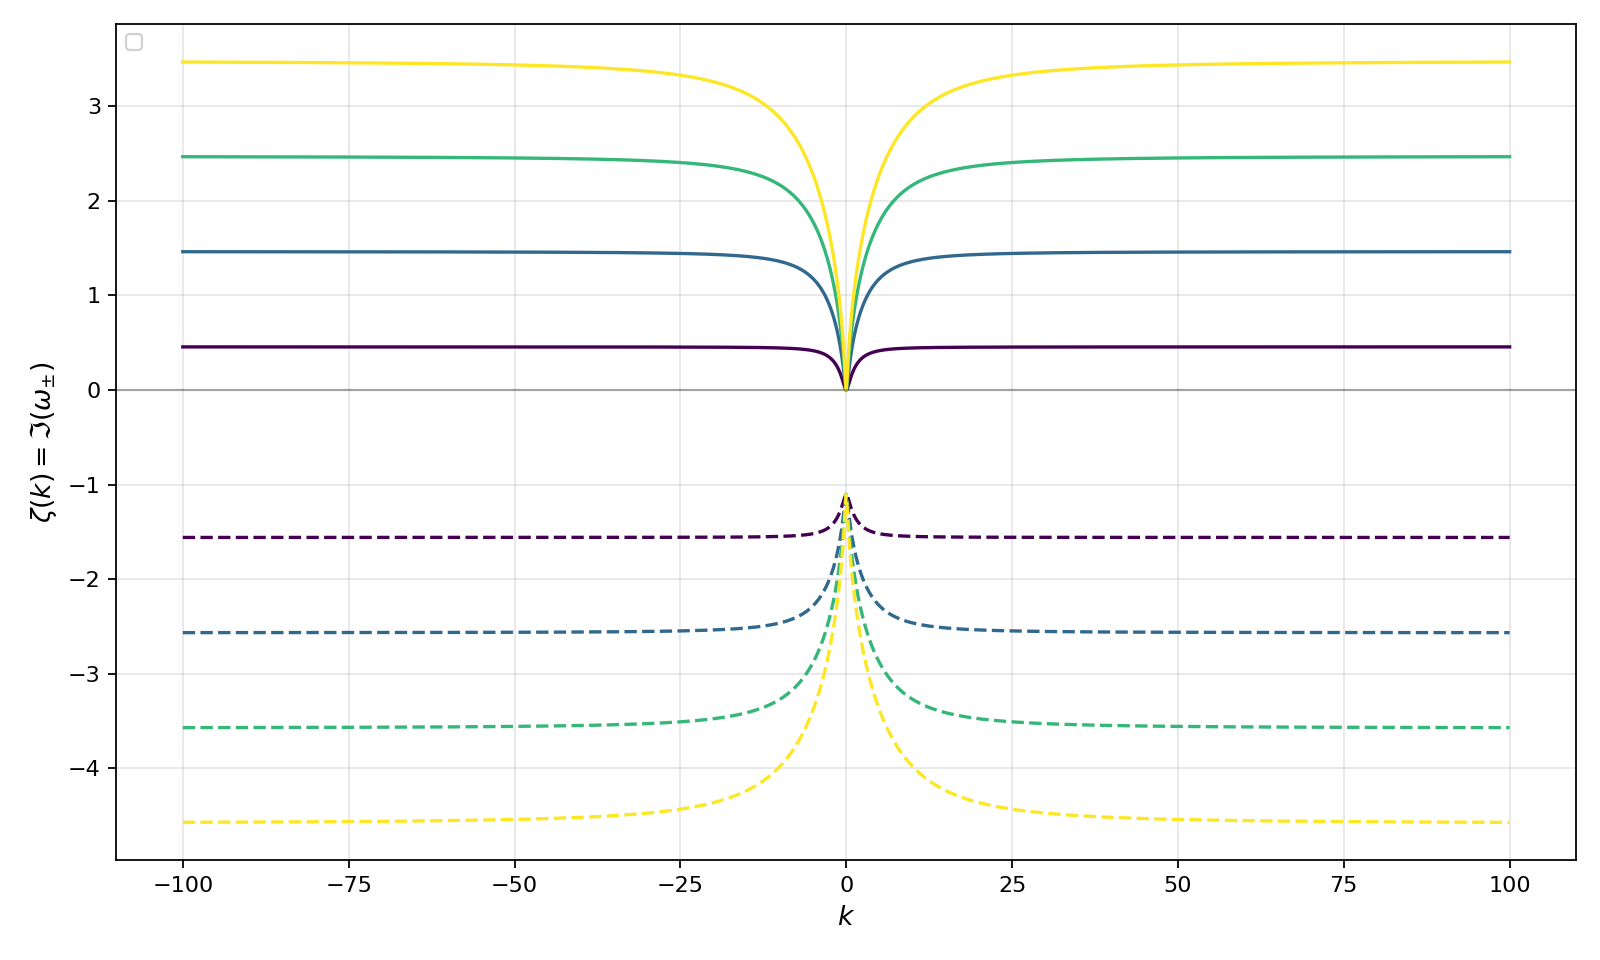
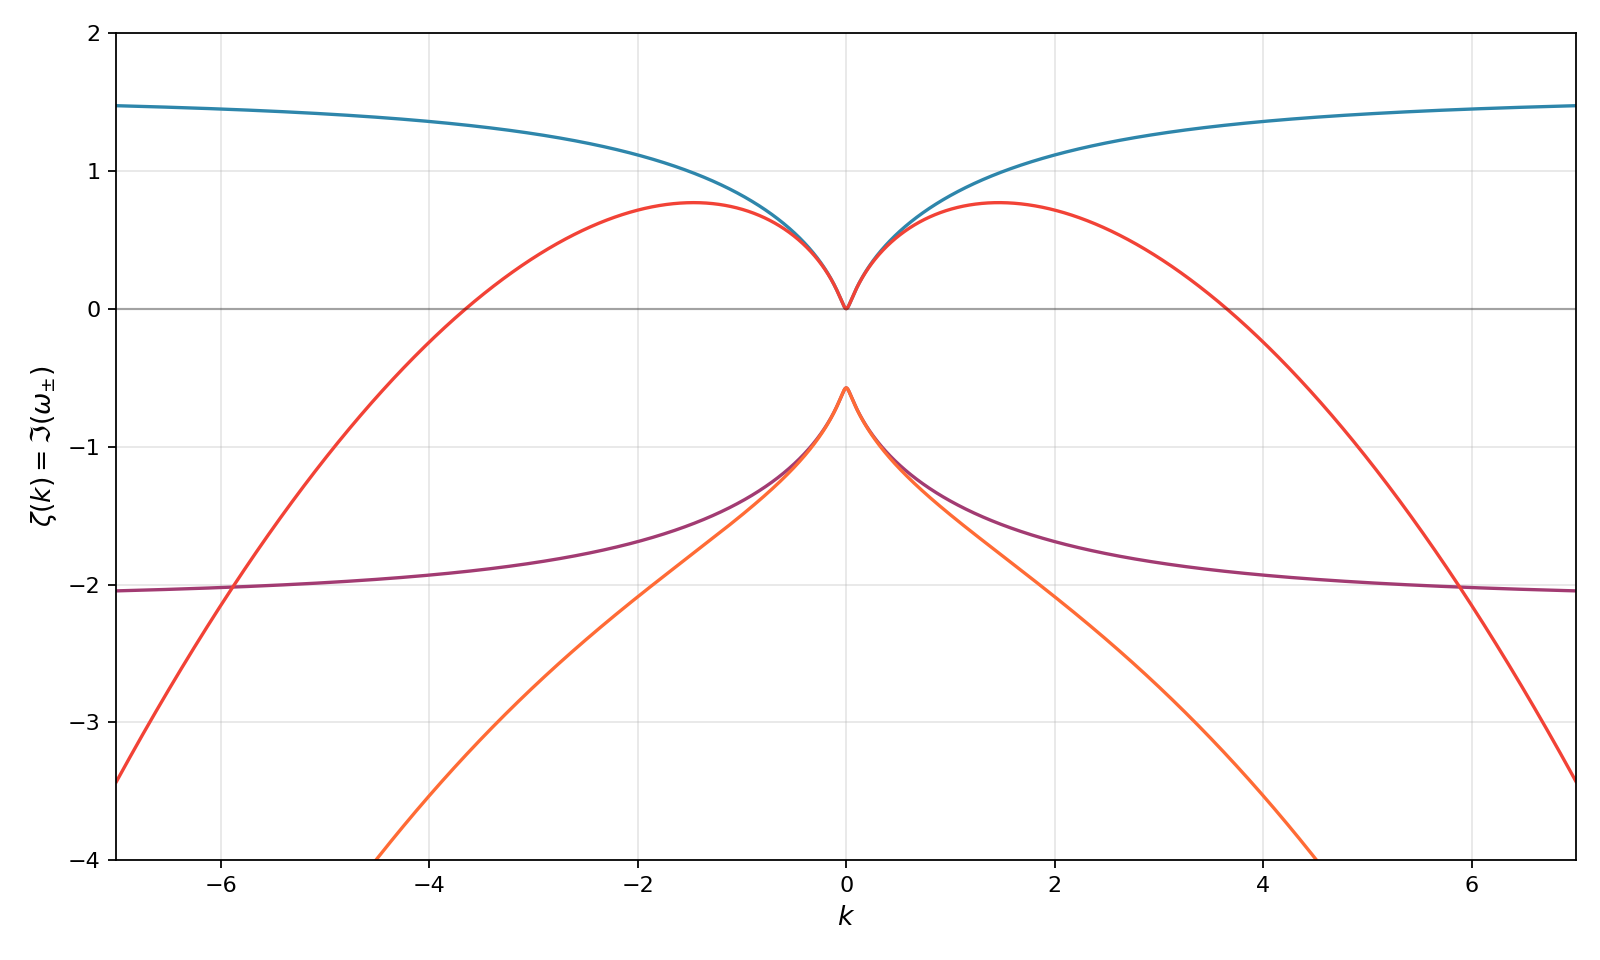
Adjusting parameters and scaling

diff --git a/linear instability increment/linear_instability_increment.py b/linear instability increment/linear_instability_increment.py
@@ -50,88 +50,44 @@ def u_star_for(scan=(0,5.0,0.01)):
         u+=st
     return None
 
-U0 = 1.5
-eta_p = 0#0.1
-eta_n = 0#0.1#*0.01
+U0 = 0.9
 # n = 0.05#0.2
 # w = 0.1
-n = 0.2
-w = 0.2#0.4
-gamma0 = 3.0
-m = 1.0
-kmin = -100
-kmax = 100
+n = 0.94
+w = 0.28#0.4
+gamma0 = 16.5
+m = 1.3
+kmin = -7
+kmax = -kmin
 N = 20000
 
 fig, ax = plt.subplots(figsize=(10, 6))
 
 L = 10.0  # Physical box size
 
-print("Calculating u_star...")
-u_star = u_star_for()
+# Fixed velocity
+u_c = 2.0
+print(f"Using velocity u_c = {u_c:.4f}")
 
-if u_star is not None:
-    u_d_min = u_star - 0.005
-    u_d_max = u_star + 0.005
-    print(f"Critical drift velocity u_star = {u_star:.6f}")
+# Define two diffusion coefficient sets with different colors for omega_plus and omega_minus
+diffusion_sets = [
+    {'eta_p': 0.0, 'eta_n': 0.0, 'color_plus': '#2E86AB', 'color_minus': '#A23B72'},  # blue and purple
+    {'eta_p': 0.1, 'eta_n': 0.1, 'color_plus': '#F24236', 'color_minus': '#FF6B35'}   # red and orange
+]
+
+for diff_idx, diff_set in enumerate(diffusion_sets):
+    eta_p = diff_set['eta_p']
+    eta_n = diff_set['eta_n']
+    color_plus = diff_set['color_plus']
+    color_minus = diff_set['color_minus']
     
-    # Verify u_star has exactly one intersection with zero
-    k_test = np.linspace(-8, 8, 1000)
-    gamma = gamma0 * np.exp(-n / w)
-    Dp, Dn = eta_p, eta_n
-    p = n * u_star
-    Pn = n * U0 - p**2 / (n**2 * m)
-    Pp = 2 * p / (n * m)
-    Gamma_n = -gamma / w
-    Lambda = (Gamma_n - gamma / n) * p
-    G_tilde = gamma + (Dp - Dn) * k_test**2
-    Delta = (G_tilde + 1j * k_test * Pp)**2 + 4j * k_test * Lambda / m - 4 * k_test**2 * Pn / m
-    omega_plus = (-1j * G_tilde + k_test * Pp + 1j * np.sqrt(Delta)) / 2 - 1j * Dn * k_test**2
-    zeta_test = np.imag(omega_plus)
-    
-    # Count zero crossings
-    zero_crossings = np.sum(np.diff(np.sign(zeta_test)) != 0)
-    print(f"Zero crossings in u_star curve: {zero_crossings}")
-    print(f"Max growth rate at u_star: {np.max(zeta_test):.6f}")
-    print(f"Min growth rate at u_star: {np.min(zeta_test):.6f}")
-else:
-    print("Warning: Could not find critical drift velocity u_star")
-    # Default range if u_star is not found
-    u_d_min = 2.5
-    u_d_max = 3.0
-
-print(f"Physical box size L = {L}")
-print(f"Fundamental mode spacing: 2π/L = {2*np.pi/L:.4f}\n")
-
-# Select 4 representative u values for plotting
-if u_star is not None:
-    # Select 4 u values: one below u_star, u_star, and two above
-    # u_plot_values = [
-    #     u_star - 0.003,
-    #     u_star - 0.001,
-    #     u_star,
-    #     u_star + 0.002
-    # ]
-    u_plot_values = [1,2,3,4]
-else:
-    # If u_star not found, use evenly spaced values in the range
-    u_plot_values = np.linspace(u_d_min, u_d_max, 4)
-
-u_plot_values = sorted(u_plot_values)
-print(f"Plotting for 4 u values: {[f'{u:.4f}' for u in u_plot_values]}")
-
-# Define colors for the 4 u values
-colors = ['#440154', '#31688e', '#35b779', '#fde725']  # viridis colors
-linestyles_plus = ['-', '-', '-', '-']  # solid for omega_plus
-linestyles_minus = ['--', '--', '--', '--']  # dashed for omega_minus
-
-for idx, u in enumerate(u_plot_values):
+    print(f"\nDiffusion set {diff_idx + 1}: η_p = {eta_p}, η_n = {eta_n}")
     k_out = np.linspace(kmin, kmax, N)
     
     # Physical parameters (vectorized)
     gamma = gamma0 * np.exp(-n / w)           # Γ(n)
     Dp, Dn = eta_p, eta_n
-    p = n * u
+    p = n * u_c
     Pn = n * U0 - p**2 / (n**2 * m)           # Π_n
     Pp = 2 * p / (n * m)                      # Π_p
     Gamma_n = -gamma / w                      # ∂Γ/∂n
@@ -149,27 +105,13 @@ for idx, u in enumerate(u_plot_values):
     zeta_plus = np.imag(omega_plus)
     zeta_minus = np.imag(omega_minus)
     
-    # Get color for this u value
-    color = colors[idx % len(colors)]
+    # Plot omega_plus (solid line) - no label
+    ax.plot(k_out, zeta_plus, linewidth=1.5, color=color_plus, linestyle='-')
     
-    # Determine label and line width
-    if u_star is not None and np.isclose(u, u_star, atol=1e-5):
-        lw = 2.5
-        u_label = f'$u^{{\\bigstar}} = {u:.4f}$'
-    else:
-        lw = 1.5
-        u_label = f'$u = {u:.4f}$'
+    # Plot omega_minus (solid line) - no label
+    ax.plot(k_out, zeta_minus, linewidth=1.5, color=color_minus, linestyle='-')
     
-    # Plot omega_plus (solid line)
-    ax.plot(k_out, zeta_plus, linewidth=lw, color=color, 
-            linestyle=linestyles_plus[idx])
-    
-    # Plot omega_minus (dashed line)
-    ax.plot(k_out, zeta_minus, linewidth=lw, color=color, 
-            linestyle=linestyles_minus[idx])
-    
-    # Print summary for this u value
-    print(f"u = {u:.4f}:")
+    # Print summary
     print(f"  ω_+: max ζ = {np.max(zeta_plus):.6f}, min ζ = {np.min(zeta_plus):.6f}")
     print(f"  ω_-: max ζ = {np.max(zeta_minus):.6f}, min ζ = {np.min(zeta_minus):.6f}")
 
@@ -187,10 +129,10 @@ ax.axhline(0, color="black", linestyle="-", linewidth=1.0, alpha=0.3)
 ax.grid(True, alpha=0.3)
 ax.set_xlabel('$k$', fontsize=12)
 ax.set_ylabel('$\\zeta(k) = \\Im(\\omega_{\\pm})$', fontsize=12)
-# ax.set_title('Linear Instability Increment (corrected dispersion with diffusion)', fontsize=13)
+ax.set_ylim(-4, 2)
+ax.set_xlim(kmin, kmax)
 
-# Legend with better tolerance for float comparison
-ax.legend(loc='upper left', fontsize=9, framealpha=0.9, ncol=2)
+# ax.set_title('Linear Instability Increment (corrected dispersion with diffusion)', fontsize=13)
 
 plt.tight_layout()
 plt.savefig("linear_instability_increment.pdf", dpi=160)
